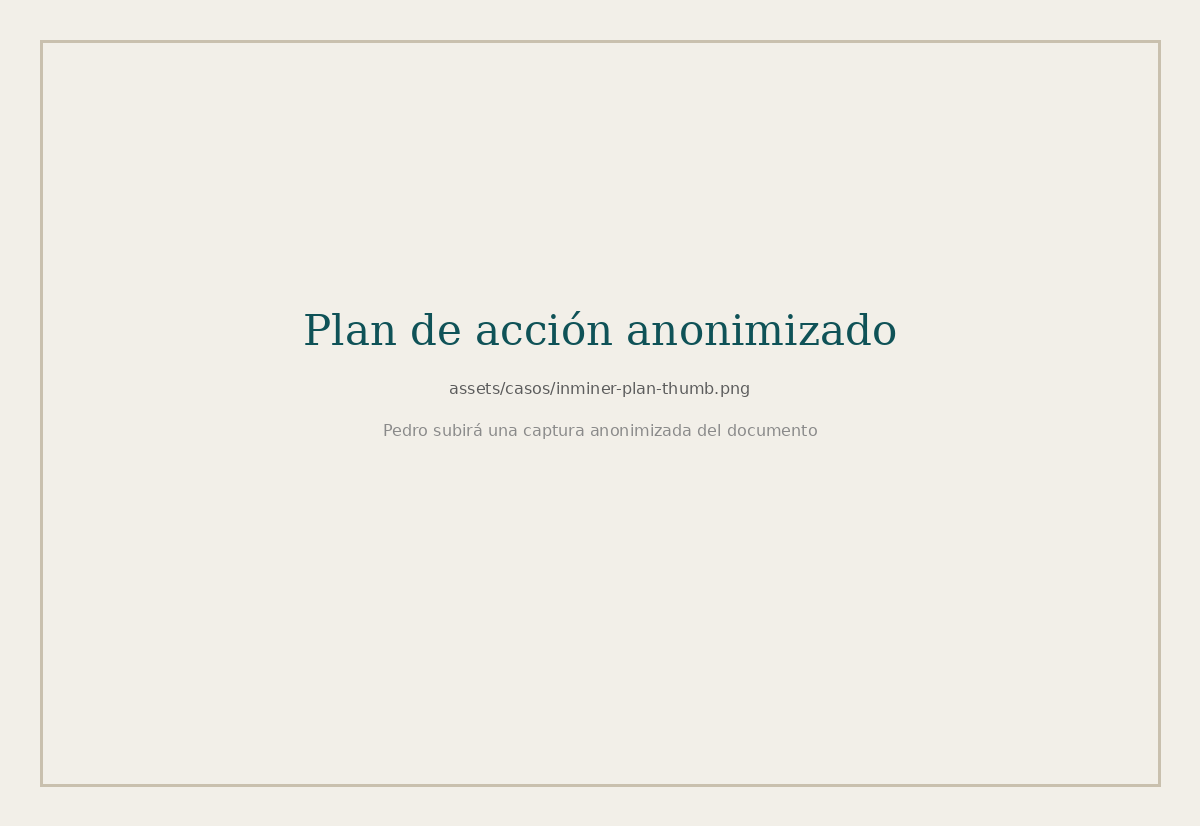
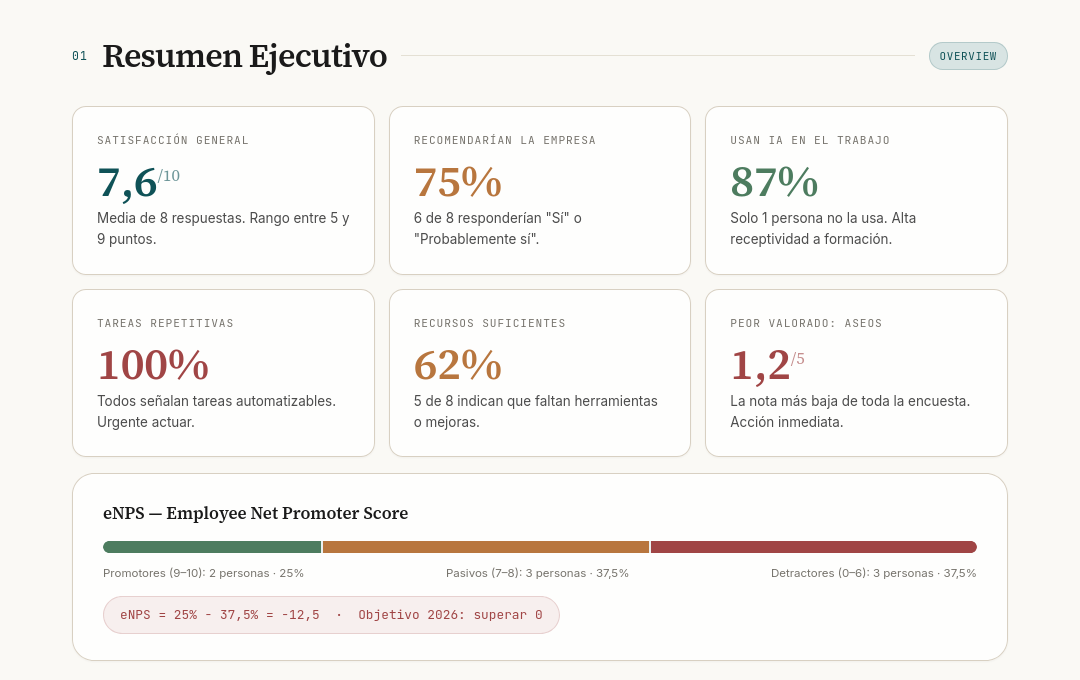
Actualizo cambios

diff --git a/casos/ingenieria-industrial/index.html b/casos/ingenieria-industrial/index.html
@@ -41,7 +41,7 @@
 <main>
 <article>
 <section class="case-hero"><div class="container case-hero-grid reveal"><div><p class="eyebrow">Caso real · anonimizado</p><h1>Caso · Empresa de ingeniería industrial.</h1><p>Empresa de ingeniería técnica industrial · ≈ 8 empleados</p><div class="hero-actions"><a class="btn btn-primary" href="/contacto/#diagnostico">Pedir un diagnóstico como este — 290 €</a><a class="btn btn-ghost" href="#roadmap">Ver hoja de ruta</a></div></div><aside class="case-status-card"><span>Estado actual</span><strong>Implementación en marcha · verano 2026</strong><p>Plan de acción entregado. Proyecto de implementación confirmado para verano de 2026.</p></aside></div></section>
-<section class="section"><div class="container split-two"><div class="reveal"><p class="eyebrow">Reto</p><h2>Un equipo pequeño con fricción operativa real.</h2><p>Hemos entregado un plan de acción completo a una empresa de ingeniería técnica industrial (≈ 8 personas).</p><p>El trabajo parte de una encuesta de clima laboral con 8 respuestas analizadas con IA, eNPS, valoración por áreas, mapa de herramientas recomendadas y hoja de ruta a seis meses.</p><p>El proyecto de implementación arranca en verano de 2026.</p></div><figure class="case-figure reveal"><img src="/assets/casos/ingenieria-plan-thumb.png" alt="Captura anonimizada pendiente del plan de acción" width="900" height="620" loading="lazy"/><figcaption>Captura anonimizada pendiente del documento.</figcaption></figure></div></section>
+<section class="section"><div class="container split-two"><div class="reveal"><p class="eyebrow">Reto</p><h2>Un equipo pequeño con fricción operativa real.</h2><p>Hemos entregado un plan de acción completo a una empresa de ingeniería técnica industrial (≈ 8 personas).</p><p>El trabajo parte de una encuesta de clima laboral con 8 respuestas analizadas con IA, eNPS, valoración por áreas, mapa de herramientas recomendadas y hoja de ruta a seis meses.</p><p>El proyecto de implementación arranca en verano de 2026.</p></div><figure class="case-figure reveal"><img src="/assets/casos/ingenieria-plan-thumb.png" alt="Captura del resumen ejecutivo del plan de acción anonimizado" width="1080" height="680" loading="lazy"/><figcaption>Vista del resumen ejecutivo del plan de acción anonimizado.</figcaption></figure></div></section>
 <section class="section section-alt"><div class="container"><div class="section-heading reveal"><p class="eyebrow">Diagnóstico</p><h2>Cuatro señales que ordenaron la conversación.</h2></div><div class="stats-grid four"><div class="stat"><strong>7,6 / 10</strong><span>Satisfacción media diagnosticada</span></div><div class="stat"><strong>−12,5</strong><span>eNPS</span></div><div class="stat"><strong>87 %</strong><span>del equipo ya usa IA</span></div><div class="stat"><strong>100 %</strong><span>señala tareas repetitivas automatizables</span></div></div></div></section>
 <section class="section"><div class="container"><div class="section-heading reveal"><p class="eyebrow">Mapa operativo</p><h2>Áreas críticas detectadas.</h2></div><div class="diagnostic-grid">
   <article class="diagnostic-card reveal"><span>Documentación</span><h3>Duplicidad documental entre departamentos</h3><p>Se detectó fricción por información replicada y falta de una fuente de referencia compartida.</p></article>

diff --git a/casos/ingenieria-industrial/plan-de-accion/index.html b/casos/ingenieria-industrial/plan-de-accion/index.html
@@ -398,7 +398,7 @@ body {
 
 <div class="content">
 
-  <div class="section-hd">
+  <div class="section-hd" id="resumen-ejecutivo">
     <span class="section-num">01</span>
     <h2>Resumen Ejecutivo</h2>
     <div class="section-line"></div>
